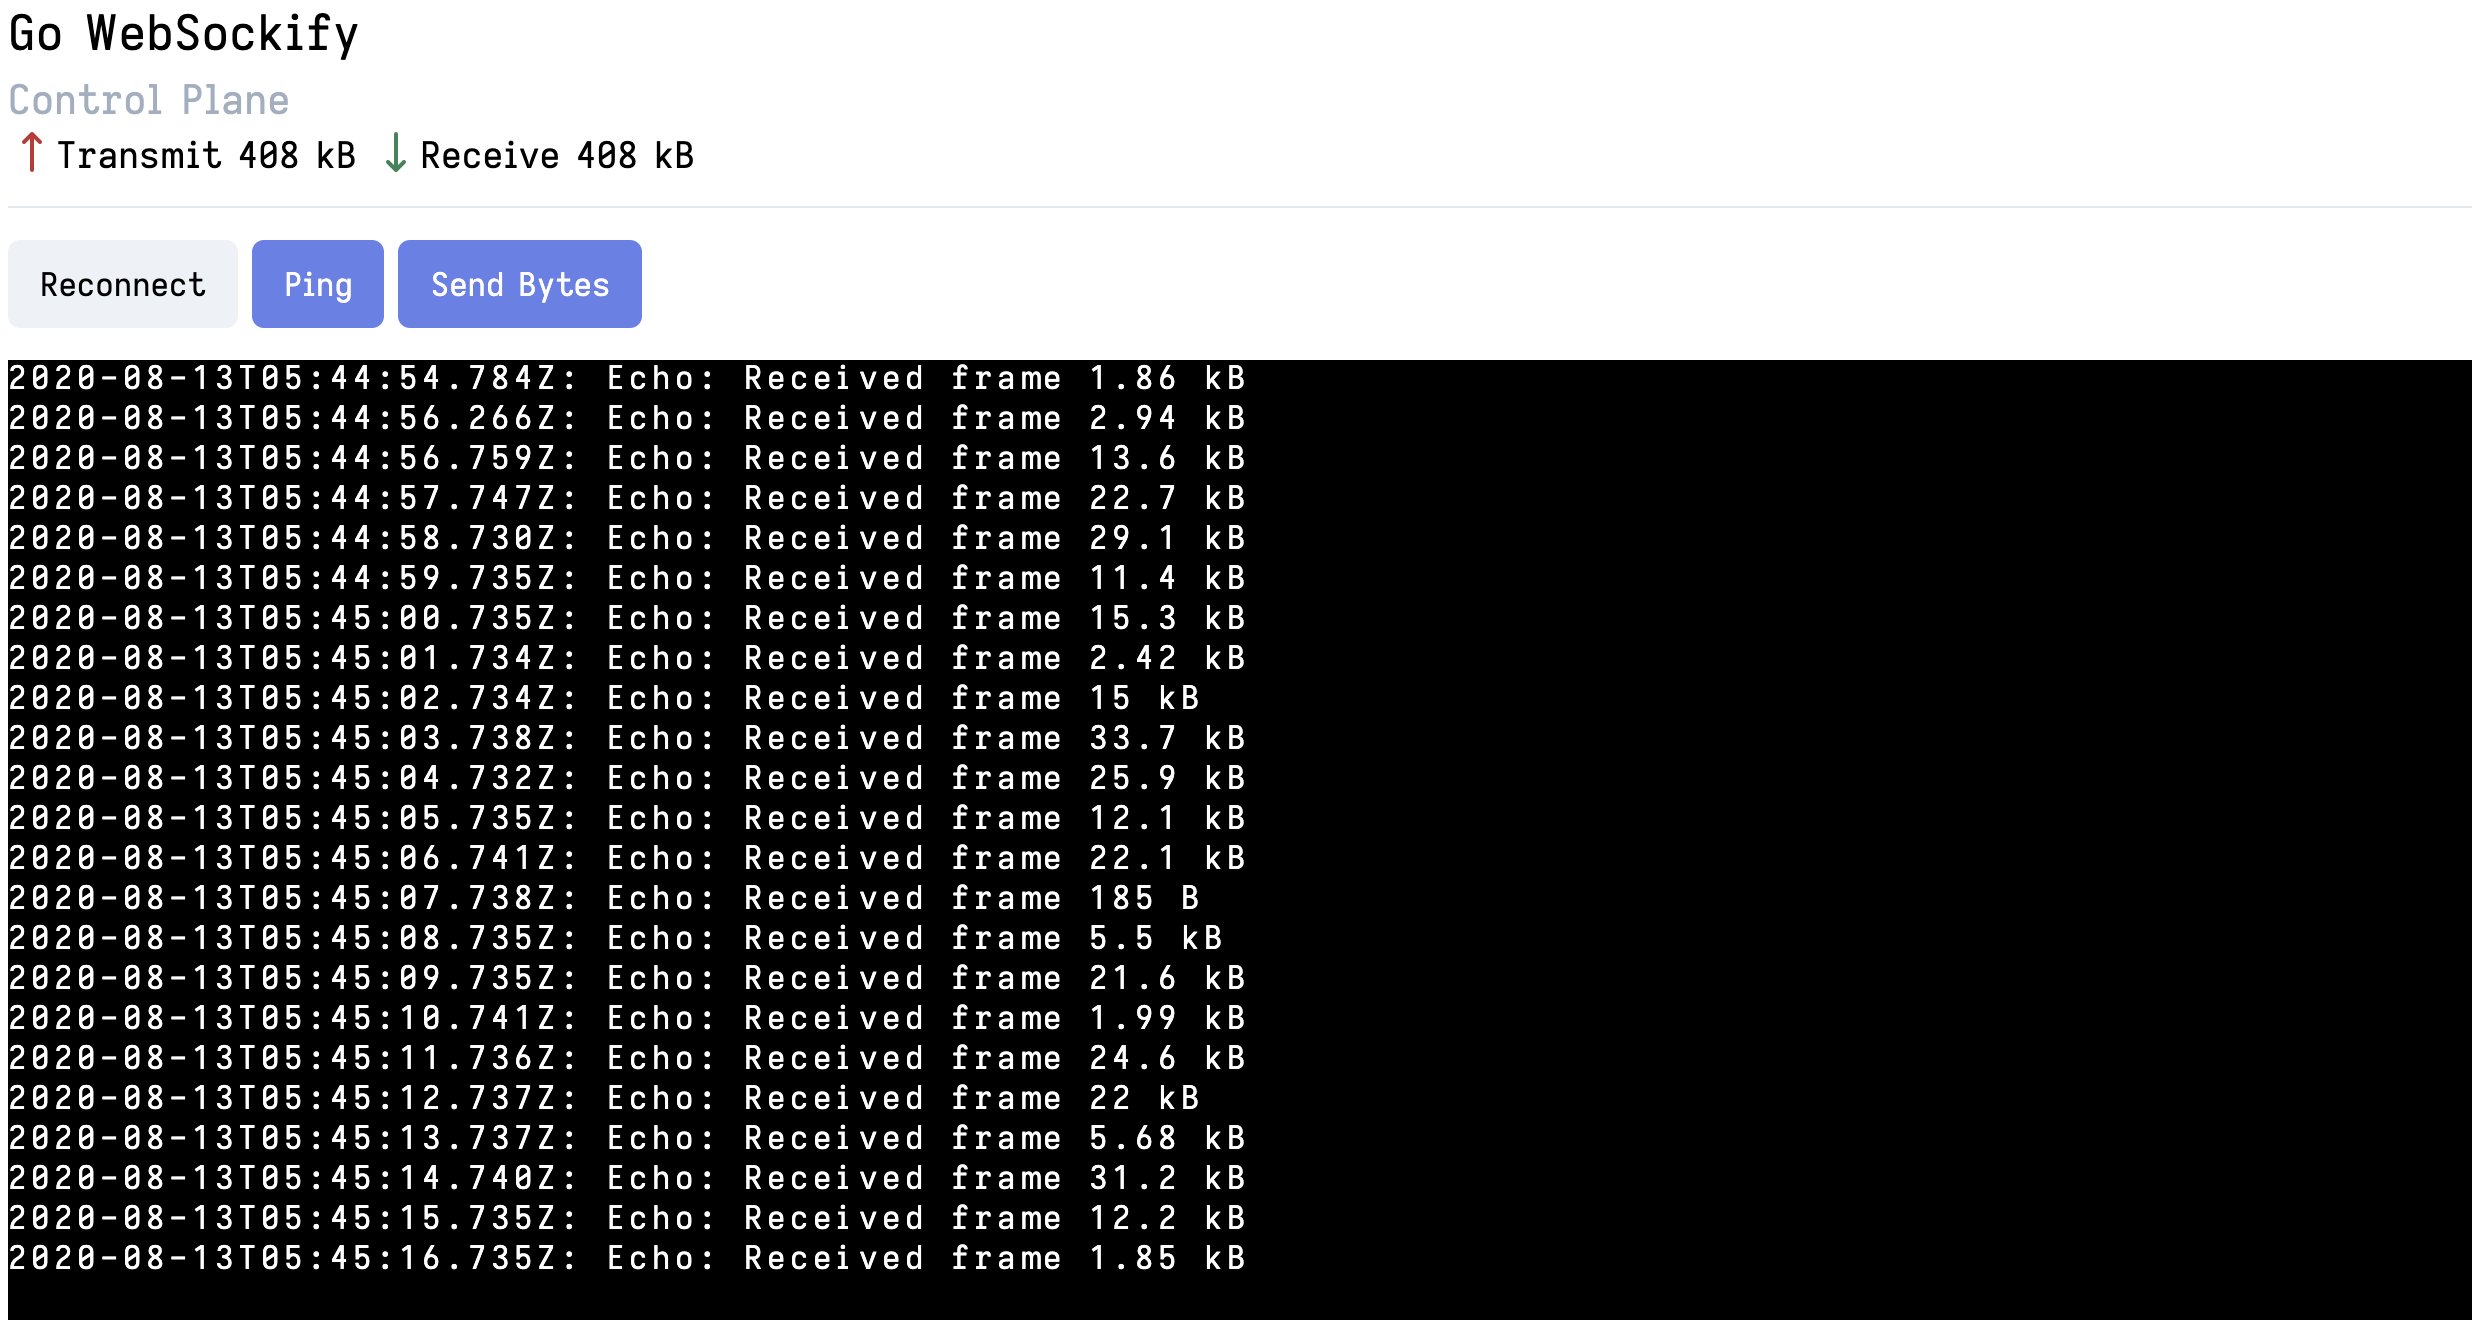
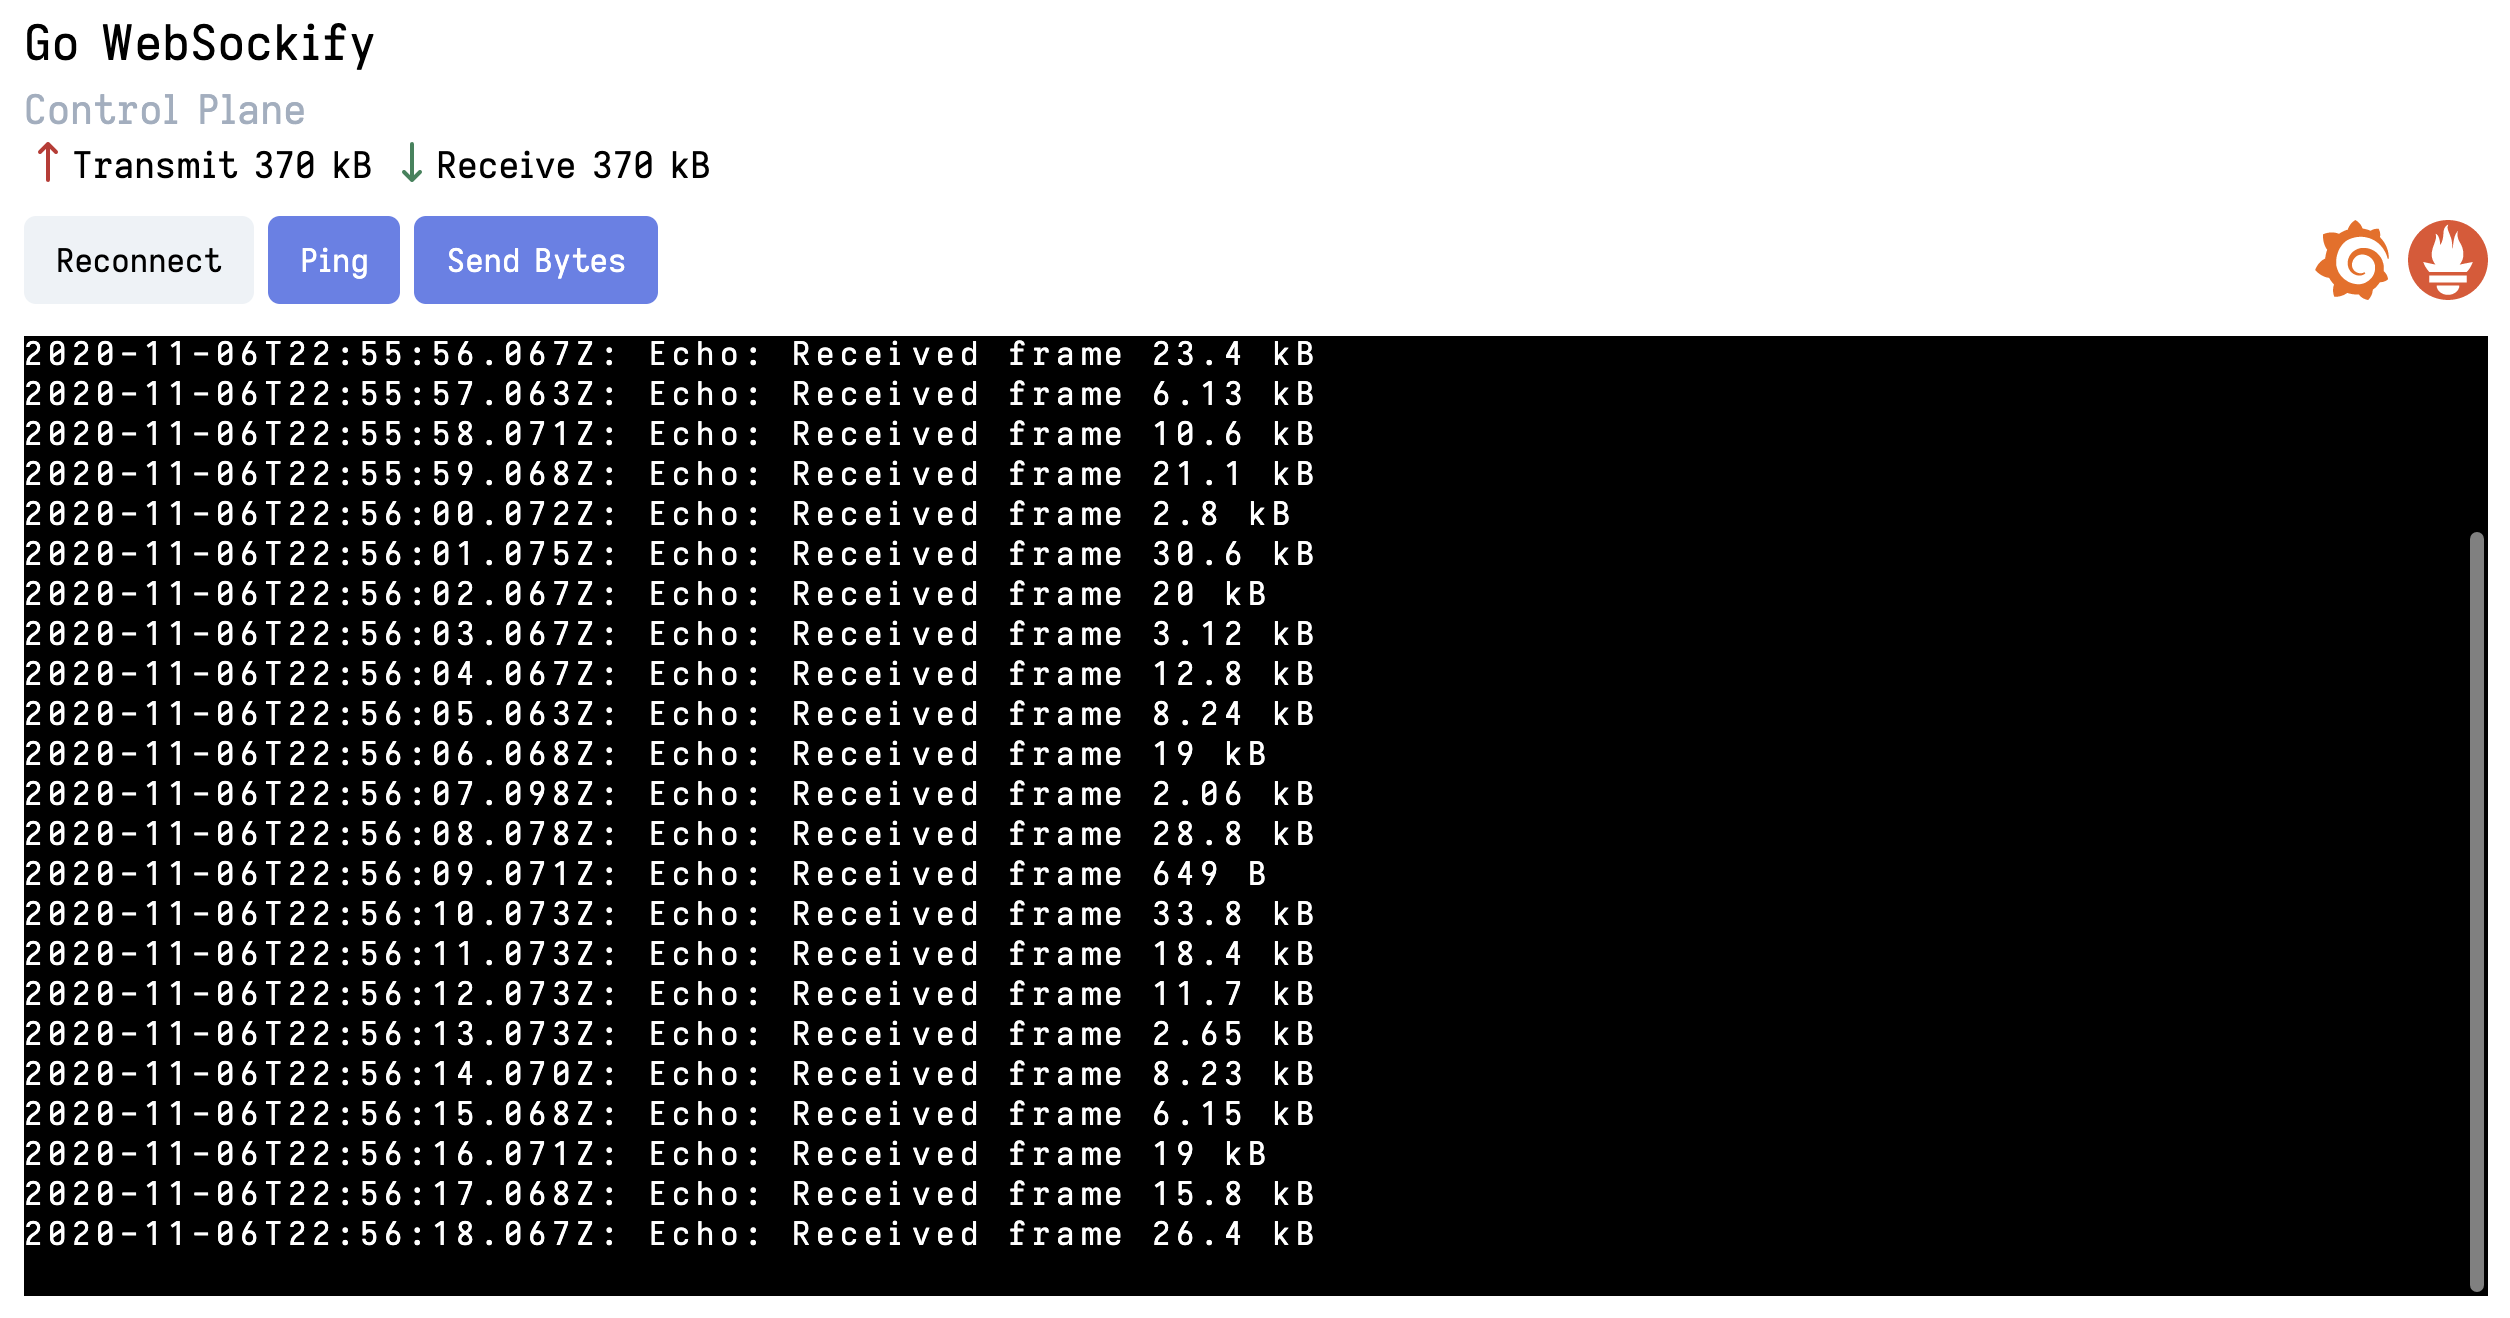
Add Control Plane to Docker and fix Docker / Modd startup (#13)
* Add path cmd flag to Docker and Modd configs
* Add frontend control plane to Docker
* Update control plane styles
* Remove whitespace from grafana.ini
* Add Grafana and Prometheus icons to client
* Update README and screenshots
* Fix Grafana dashboard labels

Changed region(s): [[0.0, 0.0, 1.0, 1.0]]

diff --git a/client/index.html b/client/index.html
@@ -1,36 +1,68 @@
 <!DOCTYPE html>
 <html>
-  <head>
-    <title>Control Plane - Go WebSockify</title>
-    <link rel="stylesheet" type="text/css" href="app.css">
-  </head>
-  <body class="font-mono">
-    <div class="container mx-auto p-6">
 
-      <h1 class="text-2xl">Go WebSockify</h1>
-      <h2 class="text-xl text-gray-500">Control Plane</h2>
+<head>
+  <title>Control Plane - Go WebSockify</title>
+  <link rel="stylesheet" type="text/css" href="app.css">
+</head>
 
-      <div class="divide-y">
-        <div class="text-lg mb-2">
-          <div class="block md:inline-flex">
-            <svg class="h-6 fill-current text-red-700 inline-flex" fill="none" stroke-linecap="round" stroke-linejoin="round" stroke-width="2" viewBox="0 0 24 24" stroke="currentColor"><path d="M8 7l4-4m0 0l4 4m-4-4v18"></path></svg>
-            <span id="tx">Transmit 0 B</span>
-          </div>
+<body class="font-mono">
+  <div class="container mx-auto p-6">
 
-          <div class="block md:inline-flex">
-            <svg class="h-6 fill-current text-green-700 inline-flex" fill="none" stroke-linecap="round" stroke-linejoin="round" stroke-width="2" viewBox="0 0 24 24" stroke="currentColor"><path d="M16 17l-4 4m0 0l-4-4m4 4V3"></path></svg>
-            <span id="rx">Receive 0 B</span>
-          </div>
+    <h1 class="text-2xl">Go WebSockify</h1>
+    <h2 class="text-xl text-gray-500">Control Plane</h2>
+
+    <div>
+      <div class="text-lg mb-2">
+        <div class="block md:inline-flex">
+          <svg class="h-6 fill-current text-red-700 inline-flex" fill="none" stroke-linecap="round"
+            stroke-linejoin="round" stroke-width="2" viewBox="0 0 24 24" stroke="currentColor">
+            <path d="M8 7l4-4m0 0l4 4m-4-4v18"></path>
+          </svg>
+          <span id="tx">Transmit 0 B</span>
         </div>
 
-        <div class="py-4">
-          <button type="button" class="btn bg-gray-200" id="reconnect">Reconnect</button>
-          <button type="button" class="btn btn-indigo" id="ping">Ping</button>
-          <button type="button" class="btn btn-indigo" id="benchmark">Send Bytes</button>
-          <div id="terminal" class="py-4 w-auto"></div>
+        <div class="block md:inline-flex">
+          <svg class="h-6 fill-current text-green-700 inline-flex" fill="none" stroke-linecap="round"
+            stroke-linejoin="round" stroke-width="2" viewBox="0 0 24 24" stroke="currentColor">
+            <path d="M16 17l-4 4m0 0l-4-4m4 4V3"></path>
+          </svg>
+          <span id="rx">Receive 0 B</span>
         </div>
       </div>
+
+      <div class="w-full flex justify-between flex-wrap">
+        <div>
+          <button type="button" class="btn btn-gray" id="reconnect">Reconnect</button>
+          <button type="button" class="btn btn-indigo" id="ping">Ping</button>
+          <button type="button" class="btn btn-indigo" id="benchmark">Send Bytes</button>
+        </div>
+
+        <div class="inline-flex items-center">
+          <a href="http://127.0.0.1:3000" class="mr-2" target="_blank" aria-label="grafana dashboard">
+            <svg class="h-10 w-10 fill-current text-grafana" role="img" xmlns="http://www.w3.org/2000/svg"
+              viewBox="0 0 24 24">
+              <title>Grafana icon</title>
+              <path
+                d="M22.999 10.626c-.043-.405-.106-.873-.234-1.384s-.341-1.065-.618-1.661c-.298-.575-.66-1.193-1.15-1.768-.192-.234-.405-.447-.618-.681.341-1.342-.405-2.513-.405-2.513-1.299-.085-2.108.405-2.406.618-.043-.021-.106-.043-.149-.064-.213-.085-.447-.17-.681-.256-.234-.064-.469-.149-.703-.192-.234-.064-.49-.106-.745-.149-.043 0-.085-.021-.128-.021C14.608.766 12.99 0 12.99 0c-1.853 1.193-2.215 2.79-2.215 2.79s0 .043-.021.085c-.106.021-.192.064-.298.085-.128.043-.277.085-.405.149s-.277.106-.405.17c-.277.128-.532.256-.809.405a8.52 8.52 0 0 0-.745.469c-.043-.021-.064-.043-.064-.043-2.492-.958-4.706.192-4.706.192-.192 2.662 1.001 4.323 1.235 4.621-.064.17-.106.319-.17.49a10.658 10.658 0 0 0-.405 1.853c-.021.085-.021.192-.043.277-2.3 1.129-2.981 3.471-2.981 3.471 1.917 2.215 4.174 2.343 4.174 2.343a9.61 9.61 0 0 0 .98 1.448c.149.192.319.362.49.554-.703 2.002.106 3.684.106 3.684 2.151.085 3.556-.937 3.854-1.171l.639.192c.66.17 1.342.277 2.002.298h.873c1.001 1.448 2.79 1.64 2.79 1.64 1.256-1.342 1.342-2.641 1.342-2.939v-.021-.043-.064c.256-.192.511-.383.767-.596.511-.447.937-.98 1.32-1.533.043-.043.064-.106.106-.149 1.427.085 2.428-.894 2.428-.894-.234-1.491-1.086-2.215-1.256-2.343l-.021-.021-.021-.021-.021-.021c0-.085.021-.17.021-.277.021-.17.021-.319.021-.49v-.213-.277-.128c0-.043 0-.085-.021-.128l-.043-.256c-.021-.17-.064-.319-.085-.49a6.327 6.327 0 0 0-.724-1.789 6.634 6.634 0 0 0-1.214-1.448 5.89 5.89 0 0 0-1.533-.98 5.368 5.368 0 0 0-1.682-.469c-.277-.043-.575-.043-.852-.043h-.128-.298c-.149.021-.298.043-.426.064-.575.106-1.107.319-1.576.596s-.873.639-1.214 1.043a4.284 4.284 0 0 0-.767 1.299c-.17.447-.277.937-.298 1.384v.511c0 .064 0 .106.021.17a3.642 3.642 0 0 0 .703 1.81c.256.341.532.596.852.809.319.213.639.362.98.469s.66.149.958.128h.446c.043 0 .085-.021.106-.021.043 0 .064-.021.106-.021.064-.021.149-.043.213-.064.128-.043.256-.106.383-.149.128-.064.234-.128.319-.192.021-.021.064-.043.085-.064a.24.24 0 0 0 .043-.341.298.298 0 0 0-.319-.064c-.021.021-.043.021-.085.043a1.43 1.43 0 0 1-.277.106c-.106.021-.213.064-.319.085-.064 0-.106.021-.17.021h-.361s-.021 0 0 0h-.086c-.022 0-.064 0-.085-.021-.234-.043-.49-.106-.724-.213s-.469-.256-.66-.447c-.213-.192-.383-.405-.532-.66s-.234-.532-.277-.809c-.021-.149-.043-.298-.021-.447v-.128c0 .021 0 0 0 0v-.043-.064c0-.085.021-.149.043-.234a3.114 3.114 0 0 1 .916-1.725c.128-.128.256-.234.405-.319.149-.106.298-.192.447-.256s.319-.128.49-.17c.17-.043.341-.085.511-.085.085 0 .17-.021.256-.021H15.228c.021 0 0 0 0 0h.085a4.046 4.046 0 0 1 1.619.49c.681.383 1.256.958 1.597 1.661.17.341.298.724.362 1.129.021.106.021.192.043.298v.554c0 .106-.021.213-.021.319-.021.106-.021.213-.043.319l-.064.319c-.021.106-.128.405-.192.618s-.362.788-.618 1.129a5.164 5.164 0 0 1-2.002 1.64c-.405.17-.809.319-1.235.383a3.221 3.221 0 0 1-.639.064h-.319c.021 0 0 0 0 0h-.021c-.106 0-.234 0-.341-.021-.469-.043-.916-.128-1.363-.256s-.873-.298-1.278-.511a6.956 6.956 0 0 1-2.108-1.746c-.277-.362-.532-.745-.745-1.15s-.362-.831-.49-1.256a5.489 5.489 0 0 1-.213-1.32v-.49-.17c0-.213.021-.447.064-.681.021-.234.064-.447.106-.681s.106-.447.17-.681.277-.873.469-1.278c.383-.809.873-1.533 1.448-2.108.149-.149.298-.277.469-.405.064-.064.213-.192.383-.298s.341-.213.532-.298c.085-.043.17-.085.277-.128.043-.021.085-.043.149-.064.043-.021.085-.043.149-.064.192-.085.383-.149.575-.213.043-.021.106-.021.149-.043s.106-.021.149-.043.192-.043.298-.085c.043-.021.106-.021.149-.043.043 0 .106-.021.149-.021s.106-.021.149-.021l.17-.043c.043 0 .106-.021.149-.021.064 0 .106-.021.17-.021.043 0 .128-.021.17-.021s.064 0 .106-.021h.149c.064 0 .106 0 .17-.021h.085s.021 0 0 0H15.033c.383.021.767.064 1.129.128a7.234 7.234 0 0 1 2.044.681 7.676 7.676 0 0 1 1.661 1.086c.021.021.064.043.085.085.021.021.064.043.085.085.064.043.106.106.17.149s.106.106.17.149c.043.064.106.106.149.17a7.88 7.88 0 0 1 1.406 1.98c.021.021.021.043.043.085.021.021.021.043.043.085s.043.106.085.149c.021.043.043.106.064.149s.043.106.064.149c.085.192.149.383.213.575.106.298.17.554.234.767a.204.204 0 0 0 .192.149c.106 0 .17-.085.17-.192-.021-.256-.021-.532-.043-.852z" />
+            </svg>
+          </a>
+
+          <a href="http://127.0.0.1:9090" target="_blank" aria-label="prometheus dashboard">
+            <svg class="h-10 w-10 fill-current text-prometheus" role="img" xmlns="http://www.w3.org/2000/svg"
+              viewBox="0 0 24 24">
+              <title>Prometheus icon</title>
+              <path
+                d="M12 0C5.373 0 0 5.372 0 12c0 6.627 5.373 12 12 12s12-5.373 12-12c0-6.628-5.373-12-12-12zm0 22.46c-1.885 0-3.414-1.26-3.414-2.814h6.828c0 1.553-1.528 2.813-3.414 2.813zm5.64-3.745H6.36v-2.046h11.28v2.046zm-.04-3.098H6.391c-.037-.043-.075-.086-.111-.13-1.155-1.401-1.427-2.133-1.69-2.879-.005-.025 1.4.287 2.395.511 0 0 .513.119 1.262.255-.72-.843-1.147-1.915-1.147-3.01 0-2.406 1.845-4.508 1.18-6.207.648.053 1.34 1.367 1.387 3.422.689-.951.977-2.69.977-3.755 0-1.103.727-2.385 1.454-2.429-.648 1.069.168 1.984.894 4.256.272.854.237 2.29.447 3.201.07-1.892.395-4.652 1.595-5.605-.529 1.2.079 2.702.494 3.424.671 1.164 1.078 2.047 1.078 3.716a4.642 4.642 0 01-1.11 2.996c.792-.149 1.34-.283 1.34-.283l2.573-.502s-.374 1.538-1.81 3.019z" />
+            </svg>
+          </a>
+        </div>
+      </div>
+
+      <div id="terminal" class="py-4 w-auto"></div>
     </div>
-    <script src="app.js"></script>
-  </body>
+  </div>
+  <script src="app.js"></script>
+</body>
+
 </html>

diff --git a/client/app.css b/client/app.css
@@ -1,29 +1,45 @@
 @import '~node_modules/xterm/css/xterm.css';
 
-@tailwind base;
+:root {
+  --color-grafana: #F46800;
+  --color-prometheus: #E6522C;
+}
 
+@tailwind base;
 @tailwind components;
 
 @font-face {
   font-family: Iosevka;
   src: url('fonts/iosevka-sparkle-regular.woff') format('woff'),
-       url('fonts/iosevka-sparkle-regular.ttf') format('opentype');
+    url('fonts/iosevka-sparkle-regular.ttf') format('opentype');
 }
 
 .btn {
-  @apply py-3 px-4 rounded-md leading-tight font-mono;
+  @apply py-3 px-4 rounded-md leading-tight;
 }
 
 .btn:focus {
   @apply outline-none shadow-outline;
 }
 
+.btn-gray {
+  @apply bg-gray-200;
+}
+
 .btn-indigo {
   @apply text-white bg-indigo-500;
 }
 
+.btn-indigo:active {
+  @apply bg-indigo-700;
+}
+
 .btn-green {
   @apply text-white bg-green-600;
+}
+
+.btn-green:active {
+  @apply bg-green-700;
 }
 
 @tailwind utilities;

diff --git a/client/tailwind.config.js b/client/tailwind.config.js
@@ -1,3 +1,5 @@
+const { colors: { ...colors } } = require('tailwindcss/defaultTheme')
+
 module.exports = {
   purge: [],
   theme: {
@@ -5,7 +7,14 @@ module.exports = {
     fontFamily: {
       mono: ["Iosevka"],
     },
+    colors: {
+      grafana: 'var(--color-grafana)',
+      prometheus: 'var(--color-prometheus)',
+      ...colors,
+    },
   },
-  variants: {},
+  variants: {
+    backgroundColor: ['responsive', 'hover', 'focus', 'active']
+  },
   plugins: [],
 };

diff --git a/client/app.js b/client/app.js
@@ -11,11 +11,11 @@ new fontfaceobserver('Iosevka').load().then(() => {
 const terminal = new Terminal({
   fontSize: 16,
   fontFamily: 'Iosevka',
-  letterSpacing: 0,
+  letterSpacing: 1,
 })
 const fitAddon = new FitAddon()
 
-const WS_URL = 'ws://localhost:8080/websockify'
+const WS_URL = 'ws://127.0.0.1:8080/websockify'
 let closing = false
 
 let ws = new WebSocket(WS_URL, ['binary'])

diff --git a/README.md b/README.md
@@ -68,7 +68,9 @@ Flags:
 [Modd](https://github.com/cortesi/modd) is used for a seamless development experience and once installed simply run the command `modd` in the root directory of this project to start the development environment.
 
 ### Control plane
-`go-websockify` has a simple JavaScript based frontend control plane for development and is available at http://127.0.0.1:1234.
+> You don't need to do this if you use the provided Docker environment.
+
+`go-websockify` has a simple JavaScript based frontend control plane for development and is available at http://127.0.0.1:1234
 
 To start the control plane run:
 ```shell
@@ -77,7 +79,7 @@ $ yarn install
 $ yarn dev
 ```
 
-> For the frontend to automatically connect to Go WebSockify you have to pass `--echo` as a command line flag to `go-websockify`. **This is done for you if you're using Modd.**
+> For the frontend to automatically connect to Go WebSockify you have to pass `--echo` as a command line flag to `go-websockify`. **This is done for you if you're using Docker or Modd.**
 
 ### Docker
 A batteries included Docker environment is included with this repository to show off Go WebSockify in a psuedo production environment.
@@ -85,15 +87,16 @@ A batteries included Docker environment is included with this repository to show
 **Docker environment features:**
 - Prometheus
 - Grafana with preconfigured dashboard
-- Go WebSockify
+- Go WebSockify and Control Plane
 - TCP Echo Server
 
 |IP|Description|
 --|--
-|http://127.0.0.1:9090|Prometheus|
-|http://127.0.0.1:3000|Grafana|
+|http://127.0.0.1:1234|Control Plane|
 |http://127.0.0.1:8080|Go WebSockify|
 |http://127.0.0.1:1984|TCP Echo Server|
+|http://127.0.0.1:3000|Grafana|
+|http://127.0.0.1:9090|Prometheus|
 
 To start the Docker environment run:
 ```shell
